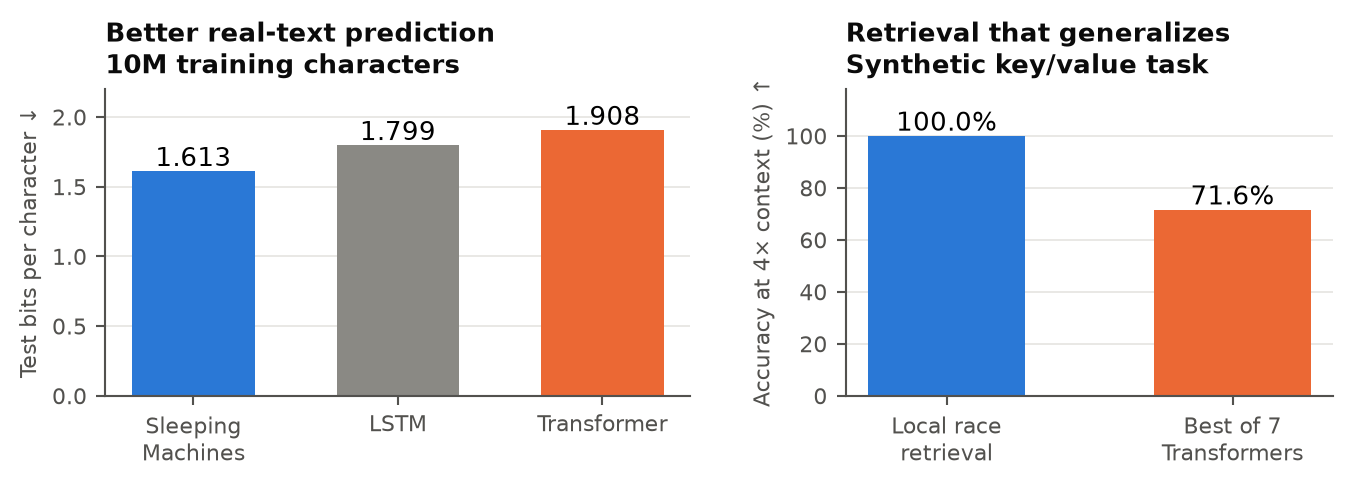
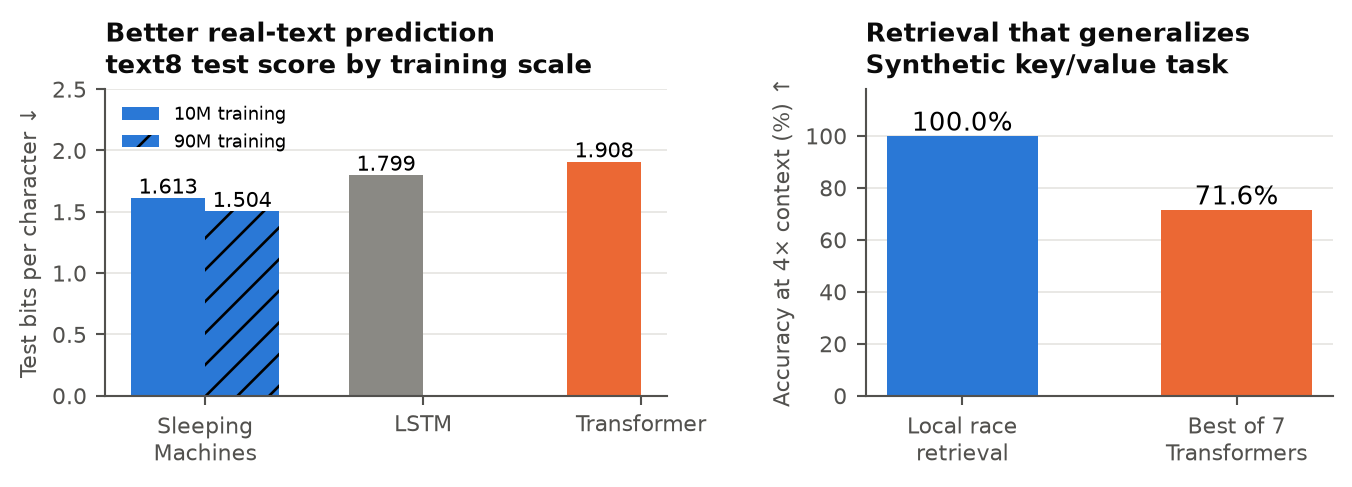
Queue and chart the 90M E64 baselines

diff --git a/report/readable_report.py b/report/readable_report.py
@@ -45,13 +45,73 @@ def results():
 def evidence(M):
     e79 = {n: read(f"e79/race_mixer_D{n}_K{k}_e77none.json")["copy_window_256"]["race_frozen_test_bpc"]
            for n, k in ((1_000_000, 5), (10_000_000, 6), (90_000_000, 7))}
+    def aws_e64_bpc(model, data_size):
+        for provenance_path in sorted((RES / "aws_20260929").glob("*/provenance.json")):
+            try:
+                meta = json.loads(provenance_path.read_text())
+                args = meta.get("arguments", [])
+                if (meta.get("status") != "completed" or
+                        meta.get("script") != "experiments/e64_lm_baselines.py" or
+                        "--model" not in args or args[args.index("--model") + 1] != model or
+                        "--D" not in args or int(args[args.index("--D") + 1]) != data_size):
+                    continue
+                for result_path in sorted(provenance_path.parent.glob("*.json")):
+                    if result_path.name == "provenance.json":
+                        continue
+                    value = json.loads(result_path.read_text()).get("test_bpc")
+                    if isinstance(value, (int, float)):
+                        return float(value)
+            except (OSError, ValueError, TypeError, IndexError):
+                continue
+        return None
     return {"e79": e79,
             "lstm1": read("e64/lstm_D1000000_s256_p20_dr0.2_v.json")["test_bpc"],
             "lstm10": read("e64/lstm_D10000000_s512_p6_dr0.1_v.json")["test_bpc"],
+            "lstm90": aws_e64_bpc("lstm", 90_000_000),
             "tf1": read("e64/tf_D1000000_s256_p20_dr0.2_v.json")["test_bpc"],
             "tf10": M["load_tf_10m_final"]()["test_bpc"],
+            "tf90": aws_e64_bpc("tf", 90_000_000),
             "recall_tf": max(p["n32"] for f in (RES/"e61").glob("tf_K32_n8*.json")
                              for row in json.loads(f.read_text())["rows"] for p in row["curve"])}
+
+
+def accomplishments_figure(M, ev):
+    import matplotlib.pyplot as plt
+    import numpy as np
+    blue, orange, gray = M["BLUE"], M["ORANGE"], M["GRAY"]
+    f, ax = plt.subplots(1, 2, figsize=(7.2, 2.65), gridspec_kw={"width_ratios": [1.2, 1]})
+    labels = ["Sleeping\nMachines", "LSTM", "Transformer"]
+    ten_m = [ev["e79"][10_000_000], ev["lstm10"], ev["tf10"]]
+    ninety_m = [ev["e79"][90_000_000], ev["lstm90"], ev["tf90"]]
+    x = np.arange(3)
+    width = .34
+    colors = [blue, gray, orange]
+    for i, (label, color) in enumerate(zip(labels, colors)):
+        ax[0].bar(x[i] - width/2, ten_m[i], width, color=color,
+                  label="10M training" if i == 0 else None)
+        ax[0].text(x[i] - width/2, ten_m[i] + .035, f"{ten_m[i]:.3f}",
+                   ha="center", fontsize=8)
+        if ninety_m[i] is not None:
+            ax[0].bar(x[i] + width/2, ninety_m[i], width, color=color, hatch="//",
+                      label="90M training" if i == 0 else None)
+            ax[0].text(x[i] + width/2, ninety_m[i] + .035, f"{ninety_m[i]:.3f}",
+                       ha="center", fontsize=8)
+    ax[0].set_xticks(x, labels)
+    ax[0].set_ylim(0, 2.5)
+    ax[0].set_ylabel("Test bits per character ↓")
+    ax[0].set_title("Better real-text prediction\ntext8 test score by training scale", fontsize=10)
+    ax[0].legend(fontsize=7, loc="upper left")
+    ax[1].bar(range(2), [100, 100*ev["recall_tf"]], color=[blue, orange], width=.55)
+    ax[1].set_xticks([0, 1], ["Local race\nretrieval", "Best of 7\nTransformers"])
+    ax[1].set_ylim(0, 118)
+    ax[1].set_ylabel("Accuracy at 4× context (%) ↑")
+    for i, value in enumerate([100, 100*ev["recall_tf"]]):
+        ax[1].text(i, value+2, f"{value:.1f}%", ha="center", fontsize=10)
+    ax[1].set_title("Retrieval that generalizes\nSynthetic key/value task", fontsize=10)
+    for a in ax:
+        a.grid(axis="x", visible=False)
+    f.tight_layout(w_pad=2.5)
+    return f
 
 
 def figures(M, tasks, ev):
@@ -63,26 +123,7 @@ def figures(M, tasks, ev):
     def save(fig, name):
         fig.savefig(FIG/(name+".png"), dpi=190, bbox_inches="tight", facecolor="white")
         plt.close(fig)
-    f, ax = plt.subplots(1, 2, figsize=(7.2, 2.65), gridspec_kw={"width_ratios": [1.2, 1]})
-    labels = ["Sleeping\nMachines", "LSTM", "Transformer"]
-    values = [ev["e79"][10_000_000], ev["lstm10"], ev["tf10"]]
-    ax[0].bar(range(3), values, color=[blue, gray, orange], width=.6)
-    for i, value in enumerate(values):
-        ax[0].text(i, value+.035, f"{value:.3f}", ha="center", fontsize=10)
-    ax[0].set_xticks(range(3), labels)
-    ax[0].set_ylim(0, 2.2)
-    ax[0].set_ylabel("Test bits per character ↓")
-    ax[0].set_title("Better real-text prediction\n10M training characters", fontsize=10)
-    ax[1].bar(range(2), [100, 100*ev["recall_tf"]], color=[blue, orange], width=.55)
-    ax[1].set_xticks([0, 1], ["Local race\nretrieval", "Best of 7\nTransformers"])
-    ax[1].set_ylim(0, 118)
-    ax[1].set_ylabel("Accuracy at 4× context (%) ↑")
-    for i, value in enumerate([100, 100*ev["recall_tf"]]):
-        ax[1].text(i, value+2, f"{value:.1f}%", ha="center", fontsize=10)
-    ax[1].set_title("Retrieval that generalizes\nSynthetic key/value task", fontsize=10)
-    for a in ax:
-        a.grid(axis="x", visible=False)
-    f.tight_layout(w_pad=2.5)
+    f = accomplishments_figure(M, ev)
     save(f, "accomplishments")
 
     f, a = plt.subplots(figsize=(7.2, 2.65))
@@ -202,7 +243,12 @@ def blocks(M, tasks, ev):
         ("bullets",[
          f"<b>Better real-language prediction.</b> With 10M training characters, the native predictive mixture reaches "
          f"<b>{ev['e79'][10_000_000]:.3f} test bits per character</b>, ahead of the completed LSTM ({ev['lstm10']:.3f}) "
-         f"and four-layer Transformer ({ev['tf10']:.3f}) on the same text8 split.",
+         f"and four-layer Transformer ({ev['tf10']:.3f}) on the same text8 split. "
+         + (f"At 90M, the held-out scores are {ev['e79'][90_000_000]:.3f} for the native mixture, "
+            f"{ev['lstm90']:.3f} for the LSTM, and {ev['tf90']:.3f} for the four-layer Transformer. "
+            if ev["lstm90"] is not None and ev["tf90"] is not None else
+            "The matched 90M LSTM and Transformer controls are queued. ")
+         + "Lower bits per character means better prediction.",
          "<b>Accurate retrieval with far fewer examples.</b> Local race retrieval learns perfect recall at four "
          "times the training context within 4,000 examples in all five runs. The consolidated model preserves "
          "100% on its standard and longer contexts.",
@@ -210,9 +256,9 @@ def blocks(M, tasks, ev):
          "3,440 unseen modular triples</b>. Native depth-four order models reach 99.9–100%; shared-motif composition "
          "reaches about 99.65% from one pass at roughly 10,000× lower counted work than its Transformer reference."]),
         ("figure",("accomplishments",174)),
-        ("small","Language scores are held-out test results from the named predictive mixture, with different model "
-         "sizes and schedules. Retrieval, composition and arithmetic are controlled synthetic tasks. The following "
-         "pages distinguish the consolidated implementation from the original native components.")])
+        ("small","Language scores are held-out test results from the named predictive mixture and gradient baselines, "
+         "with different model sizes and schedules. Retrieval, composition and arithmetic are controlled synthetic tasks. "
+         "The following pages distinguish the consolidated implementation from the original native components.")])
 
     pages.append([
         ("h1","Consolidated models: accuracy versus computation"),

diff --git a/scripts/publish_aws_safe_result.py b/scripts/publish_aws_safe_result.py
@@ -1,0 +1,105 @@
+#!/usr/bin/env python3
+"""Commit a supplemental 90M result before run_safe releases its global queue lock."""
+import datetime
+import json
+import os
+from pathlib import Path
+import shlex
+import subprocess
+import sys
+import time
+
+ROOT = Path('/workspace')
+QUEUE = ROOT / 'experiments/queue'
+PLAN = QUEUE / 'aws_plan_20260929.json'
+PROGRESS = QUEUE / 'aws_progress_90m_baselines.json'
+BRANCH = 'aws/non-shd-benchmarks-20260929'
+
+
+def git(*args, check=True):
+    return subprocess.run(['git', *args], cwd=ROOT, check=check, text=True,
+                          stdout=subprocess.PIPE, stderr=subprocess.STDOUT)
+
+
+def stamp():
+    return datetime.datetime.now(datetime.timezone.utc).isoformat()
+
+
+def publish():
+    delay = 5
+    while True:
+        fetched = git('fetch', 'origin', check=False)
+        if fetched.returncode:
+            print(stamp(), 'fetch failed; retrying:', fetched.stdout.strip(), flush=True)
+        else:
+            rebased = git('rebase', 'origin/main', check=False)
+            if rebased.returncode:
+                git('rebase', '--abort', check=False)
+                print(stamp(), 'rebase failed; retrying:', rebased.stdout.strip(), flush=True)
+            else:
+                for ref in ('refs/heads/main', f'refs/heads/{BRANCH}'):
+                    pushed = git('push', 'origin', f'HEAD:{ref}', check=False)
+                    if pushed.returncode:
+                        print(stamp(), 'push failed; retrying:', pushed.stdout.strip(), flush=True)
+                        break
+                else:
+                    return
+        time.sleep(delay)
+        delay = min(delay * 2, 300)
+
+
+def main():
+    tag = os.environ['AFTER_JOB_NAME']
+    exit_code = int(os.environ.get('AFTER_JOB_EXIT_CODE', '1'))
+    jobs = {job['run_tag']: job for job in json.loads(PLAN.read_text())}
+    job = jobs[tag]
+    result_dir = ROOT / 'experiments/results/aws_20260929' / tag
+    provenance_path = result_dir / 'provenance.json'
+    provenance = json.loads(provenance_path.read_text())
+    status = 'completed' if exit_code == 0 and provenance.get('status') == 'completed' else 'failed'
+    if status != 'completed' and provenance.get('status') == 'running':
+        provenance.update(status='terminated', exit_code=exit_code)
+        provenance_path.write_text(json.dumps(provenance, indent=2) + '\n')
+
+    args = list(job['arguments'])
+    command = ['experiments/aws_benchmark.py', '--run-tag', tag, '--script', job['script'], '--', *args]
+    qfile = QUEUE / f'{tag}.txt'
+    qfile.write_text(tag + ' ' + shlex.join(command) + '\n')
+    record = dict(exit_code=exit_code, wall_s=provenance.get('wall_s'), status=status,
+                  command=shlex.join(command), limits=provenance.get('limits'),
+                  peak_rss_kb=provenance.get('peak_rss_kb'))
+    progress = json.loads(PROGRESS.read_text()) if PROGRESS.exists() else {}
+    progress[tag] = record
+    PROGRESS.write_text(json.dumps(progress, indent=2) + '\n')
+
+    paths = [qfile, PROGRESS, QUEUE / 'aws_90m_reference_baselines.txt',
+             QUEUE / 'runner_aws_90m_reference_baselines.out',
+             QUEUE / 'logs' / f'{tag}.log', *result_dir.glob('*.json')]
+    if status == 'completed':
+        updated = subprocess.run([str(ROOT / '.venv-docker/bin/python'),
+                                  'scripts/update_aws_benchmark_report.py'], cwd=ROOT,
+                                 text=True, stdout=subprocess.PIPE, stderr=subprocess.STDOUT)
+        print(updated.stdout.strip(), flush=True)
+        if updated.returncode == 0:
+            paths.append(ROOT / 'report/figures/accomplishments.png')
+            env = dict(os.environ, MPLCONFIGDIR='/tmp/mpl_sm_report')
+            built = subprocess.run([str(ROOT / '.venv-docker/bin/python'), 'report/make_pdf.py'],
+                                   cwd=ROOT, env=env, text=True,
+                                   stdout=subprocess.PIPE, stderr=subprocess.STDOUT)
+            if built.returncode == 0:
+                paths.extend([ROOT / 'REPORT.md', ROOT / 'report/sleeping_machines_status.pdf',
+                              ROOT / 'report/sleeping_machines_shared_20260929.pdf'])
+                print(stamp(), 'rebuilt report PDF', flush=True)
+            else:
+                print(stamp(), 'PDF rebuild deferred; upstream report inputs are missing:',
+                      built.stdout.strip().splitlines()[-1], flush=True)
+
+    paths = [str(path.relative_to(ROOT)) for path in paths if path.exists()]
+    git('add', '--', *paths)
+    git('commit', '--only', '-m', f'Record {tag}: {status}', '--', *paths)
+    publish()
+    print(stamp(), 'published', tag, 'to main and benchmark branch', flush=True)
+
+
+if __name__ == '__main__':
+    main()

diff --git a/scripts/update_aws_benchmark_report.py b/scripts/update_aws_benchmark_report.py
@@ -15,9 +15,16 @@ FIGURES = REPORT / "figures"
 def main():
     sys.path.insert(0, str(REPORT))
     import figures_mech as figures
+    import make_pdf
+    import readable_report
 
     FIGURES.mkdir(parents=True, exist_ok=True)
     rendered = []
+    ev = readable_report.evidence(vars(make_pdf))
+    accomplishments = readable_report.accomplishments_figure(vars(make_pdf), ev)
+    accomplishments.savefig(FIGURES / "accomplishments.png", dpi=190, bbox_inches="tight", facecolor="white")
+    plt.close(accomplishments)
+    rendered.append("accomplishments")
     for name, build in (("supremacy_map", figures.fig_supremacy_map),
                         ("e68_recall_training", figures.fig_e68_recall_training),
                         ("e76_attention_work", figures.fig_e76_attention_work)):

diff --git a/scripts/run_aws_non_shd.py b/scripts/run_aws_non_shd.py
@@ -55,6 +55,9 @@ def main():
         raise RuntimeError('Use the dedicated AWS benchmark branch')
     jobs = json.loads(PLAN.read_text())
     progress = json.loads(PROGRESS.read_text()) if PROGRESS.exists() else {}
+    supplemental_progress = QUEUE / 'aws_progress_90m_baselines.json'
+    if supplemental_progress.exists():
+        progress.update(json.loads(supplemental_progress.read_text()))
     for job in jobs:
         tag = job['run_tag']
         if tag in progress:
